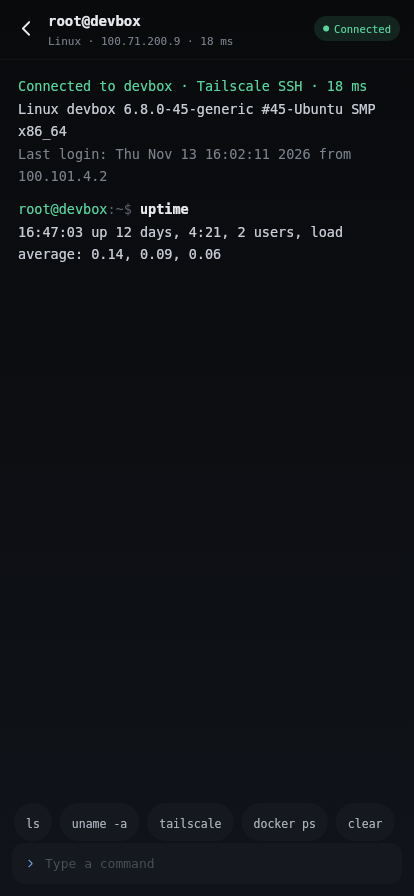
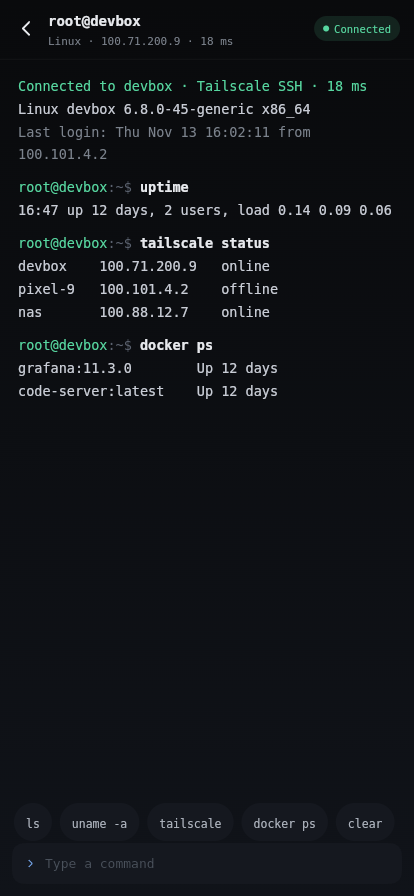
fix: keep terminal output inside a phone width

diff --git a/lib/src/pages/terminal.dart b/lib/src/pages/terminal.dart
@@ -35,18 +35,17 @@ class _TerminalPageState extends State<TerminalPage> {
   final _scroll = ScrollController();
   late final List<_Line> _lines = [
     _Line('Connected to ${widget.node.name} · Tailscale SSH · 18 ms', _Kind.ok),
-    _Line('Linux devbox 6.8.0-45-generic #45-Ubuntu SMP PREEMPT_DYNAMIC x86_64', _Kind.output),
-    _Line('Last login: Thu Nov 13 16:02:11 2026 from 100.101.4.2', _Kind.muted),
+    _Line('Linux devbox 6.8.0-45-generic x86_64', _Kind.output),
+    _Line('Last login: Thu Nov 13 16:02:11 from 100.101.4.2', _Kind.muted),
     const _Line('uptime', _Kind.command),
-    const _Line('16:47:03 up 12 days, 4:21, 2 users, load average: 0.14, 0.09, 0.06', _Kind.output),
+    const _Line('16:47 up 12 days, 2 users, load 0.14 0.09 0.06', _Kind.output),
     const _Line('tailscale status', _Kind.command),
-    const _Line('100.71.200.9   devbox     markbang@   linux    -', _Kind.output),
-    const _Line('100.101.4.2    pixel-9    markbang@   android  offline', _Kind.output),
-    const _Line('100.88.12.7    nas        markbang@   linux    -', _Kind.output),
+    const _Line('devbox    100.71.200.9   online', _Kind.output),
+    const _Line('pixel-9   100.101.4.2    offline', _Kind.output),
+    const _Line('nas       100.88.12.7    online', _Kind.output),
     const _Line('docker ps', _Kind.command),
-    const _Line('CONTAINER ID   IMAGE                  STATUS        NAMES', _Kind.output),
-    const _Line('3f9c1a2b7d10   grafana:11.3.0         Up 12 days    grafana', _Kind.output),
-    const _Line('8a71d0c4e512   codercom/code-server   Up 12 days    code', _Kind.output),
+    const _Line('grafana:11.3.0        Up 12 days', _Kind.output),
+    const _Line('code-server:latest    Up 12 days', _Kind.output),
   ];
 
   @override
@@ -76,22 +75,21 @@ class _TerminalPageState extends State<TerminalPage> {
         _Line('bin     grafana.ini         node_modules  scripts', _Kind.output),
       ],
     'uname' => const [
-        _Line('Linux devbox 6.8.0-45-generic #45-Ubuntu SMP PREEMPT_DYNAMIC x86_64 GNU/Linux', _Kind.output),
+        _Line('Linux devbox 6.8.0-45-generic x86_64', _Kind.output),
       ],
     'tailscale' => const [
-        _Line('100.71.200.9   devbox     markbang@   linux    -', _Kind.output),
-        _Line('100.101.4.2    pixel-9    markbang@   android  offline', _Kind.output),
-        _Line('100.88.12.7    nas        markbang@   linux    -', _Kind.output),
+        _Line('devbox    100.71.200.9   online', _Kind.output),
+        _Line('pixel-9   100.101.4.2    offline', _Kind.output),
+        _Line('nas       100.88.12.7    online', _Kind.output),
       ],
     'docker' => const [
-        _Line('CONTAINER ID   IMAGE                  STATUS        NAMES', _Kind.output),
-        _Line('3f9c1a2b7d10   grafana:11.3.0         Up 12 days    grafana', _Kind.output),
-        _Line('8a71d0c4e512   codercom/code-server   Up 12 days    code', _Kind.output),
+        _Line('grafana:11.3.0        Up 12 days', _Kind.output),
+        _Line('code-server:latest    Up 12 days', _Kind.output),
       ],
     'whoami' => const [_Line('root', _Kind.output)],
     'pwd' => const [_Line('/root', _Kind.output)],
     'uptime' => const [
-        _Line('16:47:12 up 12 days, 4:21, 2 users, load average: 0.12, 0.09, 0.06', _Kind.output),
+        _Line('16:47 up 12 days, 2 users, load 0.12 0.09 0.06', _Kind.output),
       ],
     'help' => const [
         _Line('Try: ls · uname -a · tailscale · docker ps · whoami · pwd · uptime · clear', _Kind.muted),
